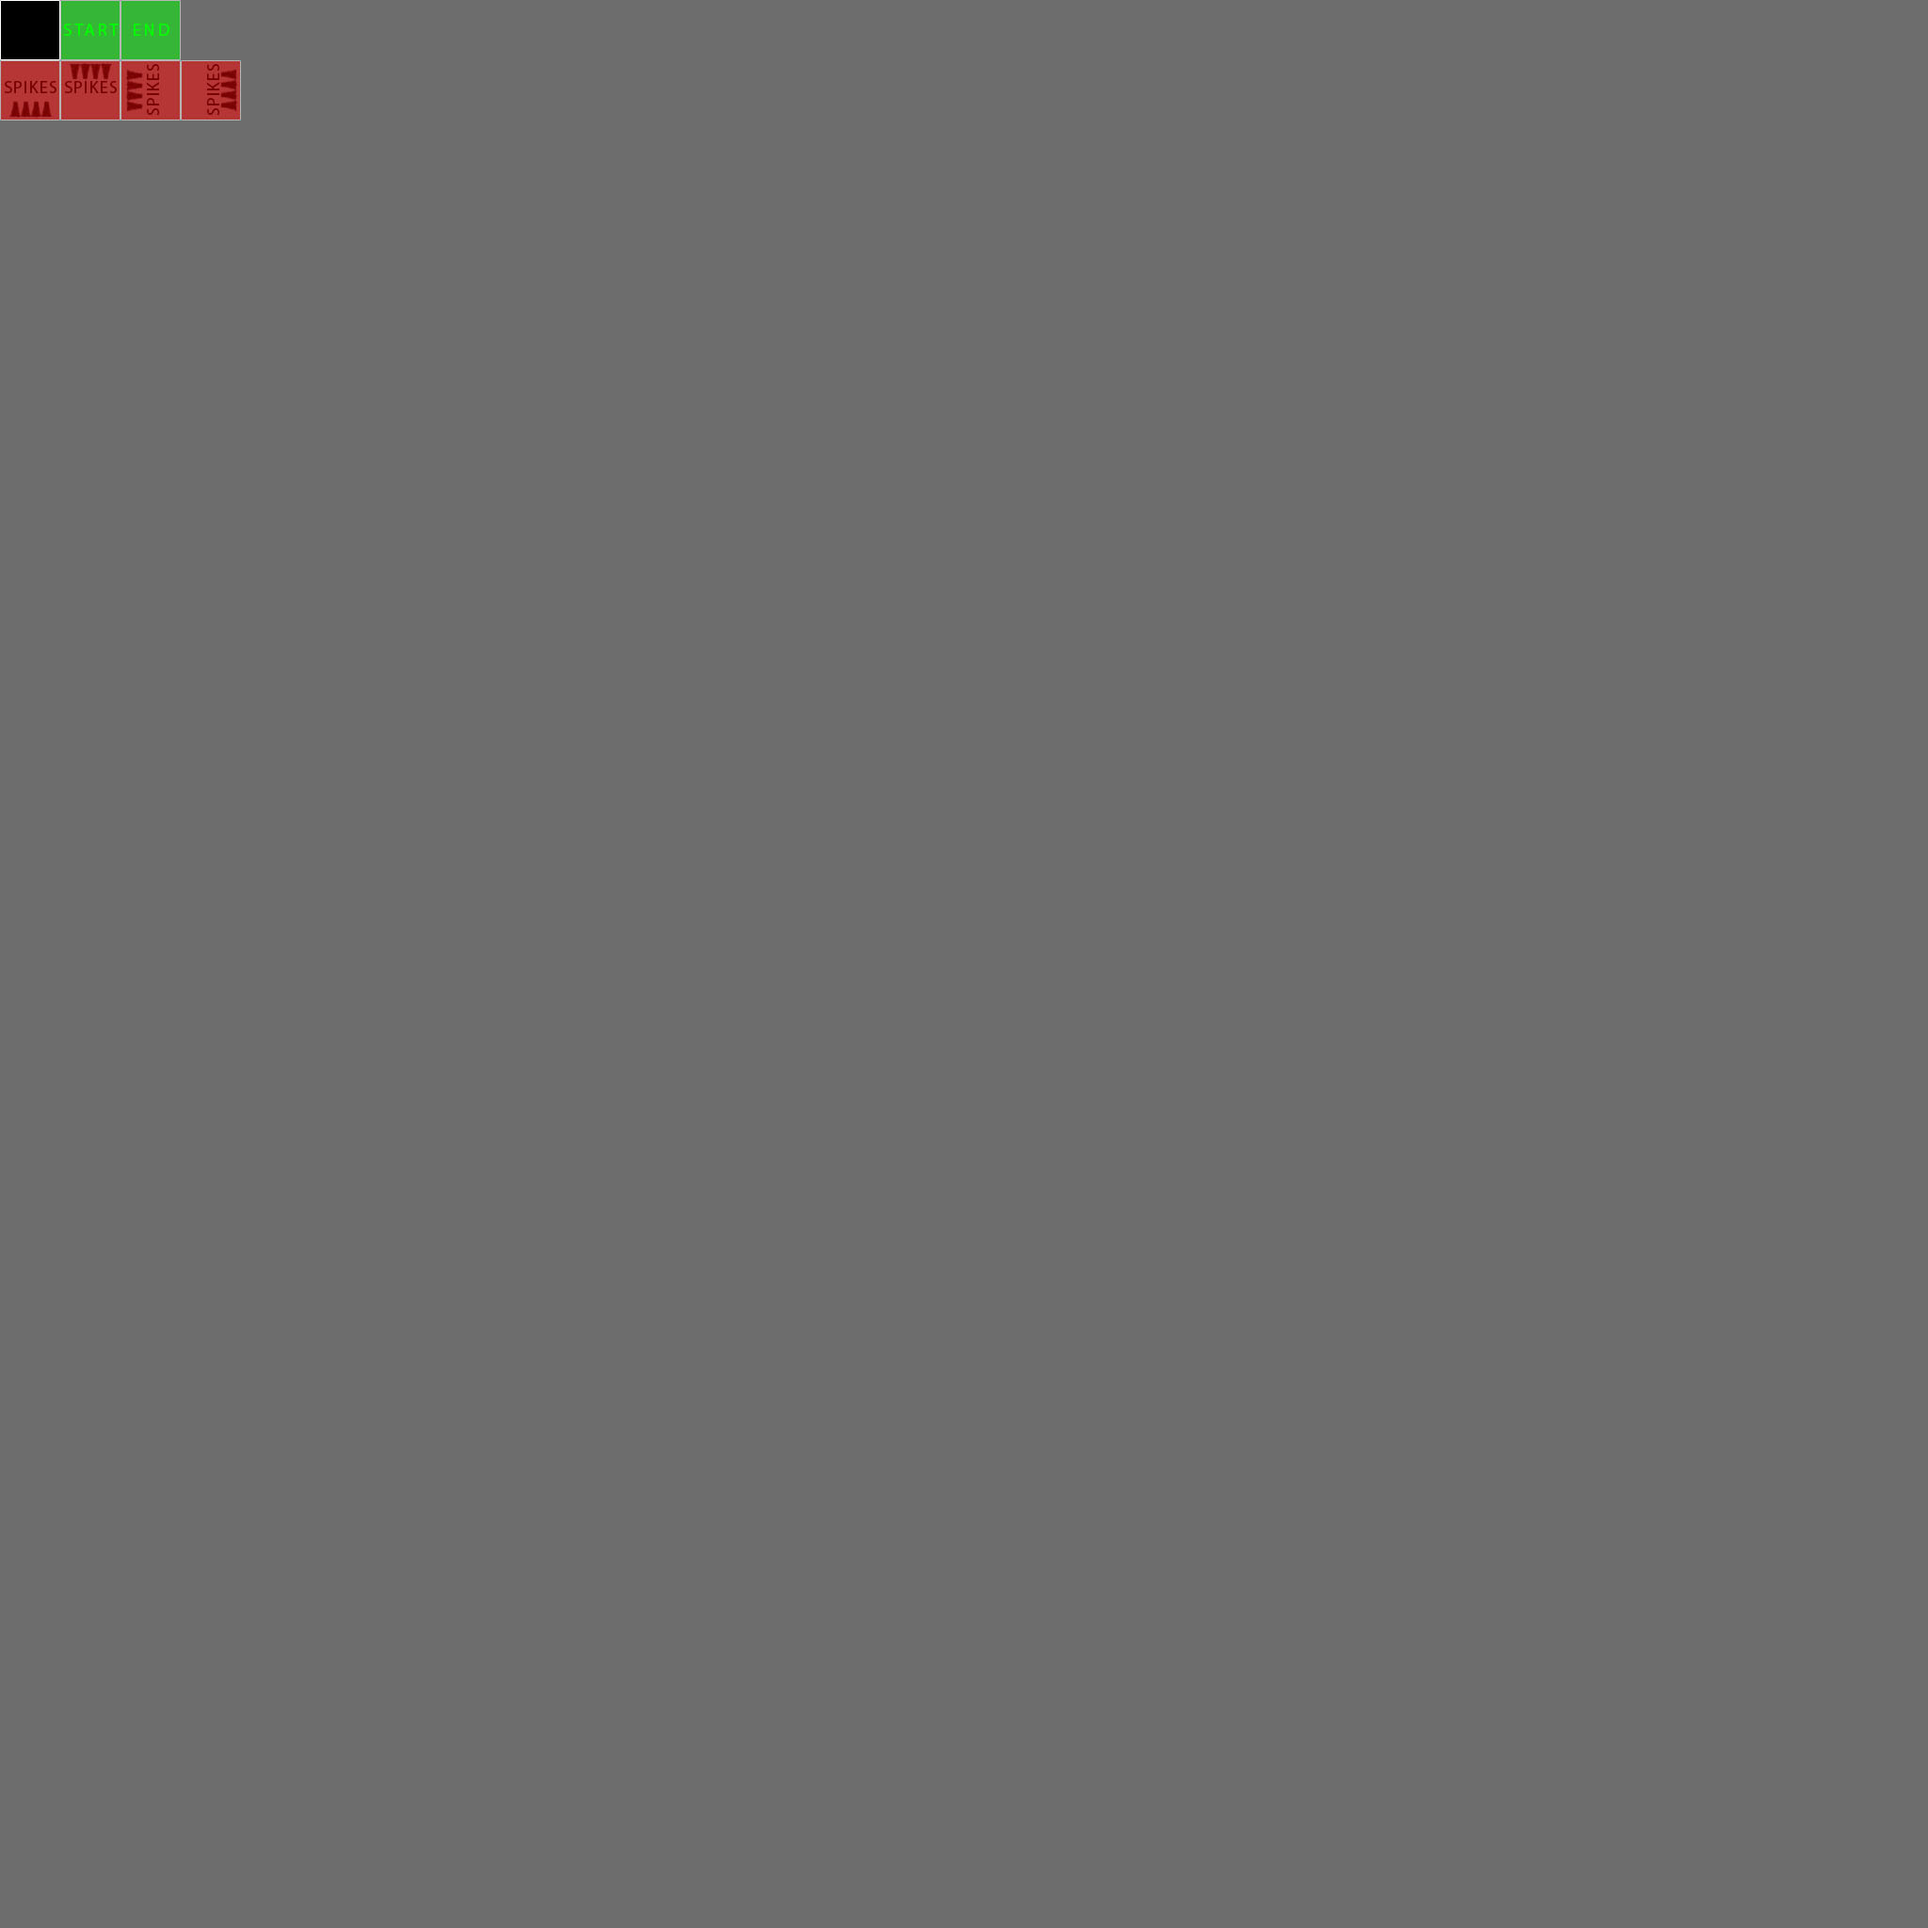
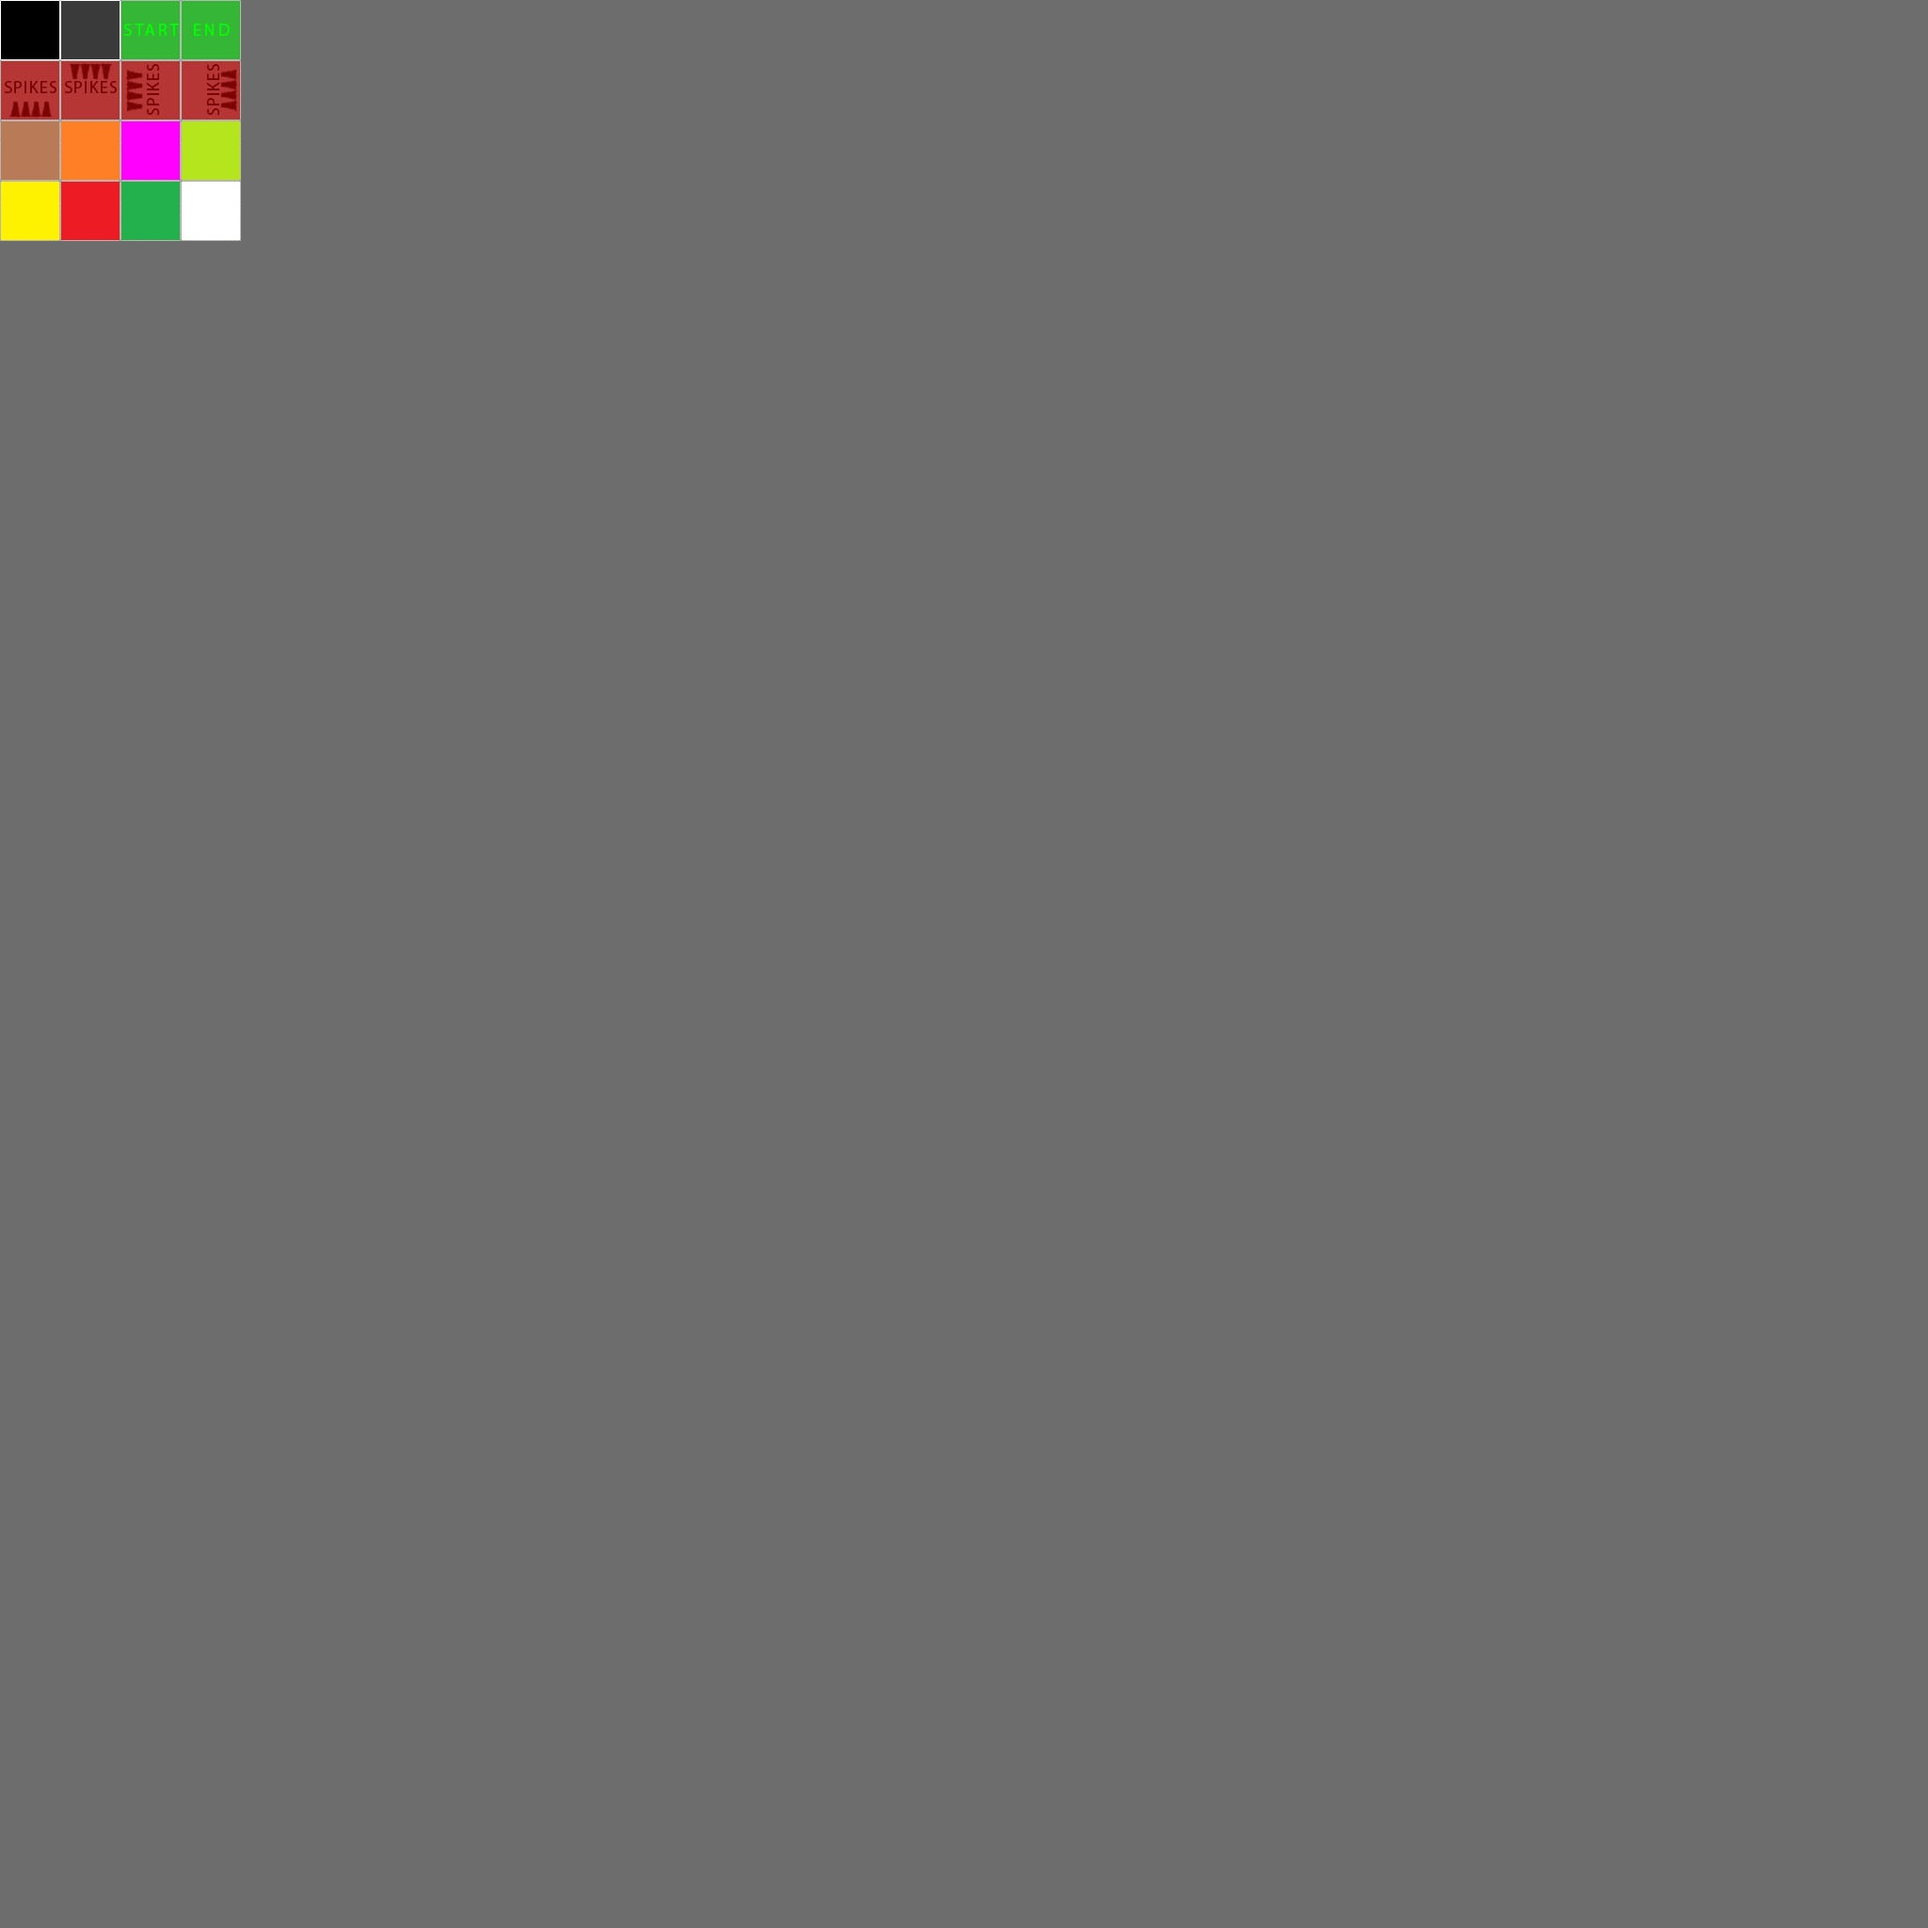
Fixed movement in moving square.

Changed region(s): [[0.0, 0.0, 0.125, 0.125]]

diff --git a/PolyEngine/Game/Res/Levels/TilesPalette.tsx b/PolyEngine/Game/Res/Levels/TilesPalette.tsx
@@ -1,11 +1,20 @@
 <?xml version="1.0" encoding="UTF-8"?>
 <tileset name="TilesPalette" tilewidth="64" tileheight="64" tilecount="1024" columns="32">
  <image source="../Tilemap.jpg" width="2048" height="2048"/>
- <tile id="0" type="Ground"/>
- <tile id="1" type="Start"/>
- <tile id="2" type="End"/>
+ <tile id="0" type="Ground static"/>
+ <tile id="1" type="Ground dynamic"/>
+ <tile id="2" type="Start"/>
+ <tile id="3" type="End"/>
  <tile id="32" type="Spikes bottom"/>
  <tile id="33" type="Spikes top"/>
  <tile id="34" type="Spikes left"/>
  <tile id="35" type="Spikes right"/>
+ <tile id="64" type="Long jump"/>
+ <tile id="65" type="High jump"/>
+ <tile id="66" type="Short jump"/>
+ <tile id="67" type="Low jump"/>
+ <tile id="96" type="Smaller character"/>
+ <tile id="97" type="Larger character"/>
+ <tile id="98" type="Faster character"/>
+ <tile id="99" type="Slower character"/>
 </tileset>

diff --git a/PolyEngine/Game/Src/PlayerUpdateSystem.cpp b/PolyEngine/Game/Src/PlayerUpdateSystem.cpp
@@ -33,7 +33,7 @@ namespace SGJ
 
 			move *= deltaTime * playerCmp->GetMovementSpeed();
 
-			if (rigidbodyCmp->GetLinearSpeed().Length() < 1)
+			if (rigidbodyCmp->GetLinearSpeed().Length() < 10)
 				rigidbodyCmp->ApplyImpulseToCenter(move);
 
 			//rigidbodyCmp->
